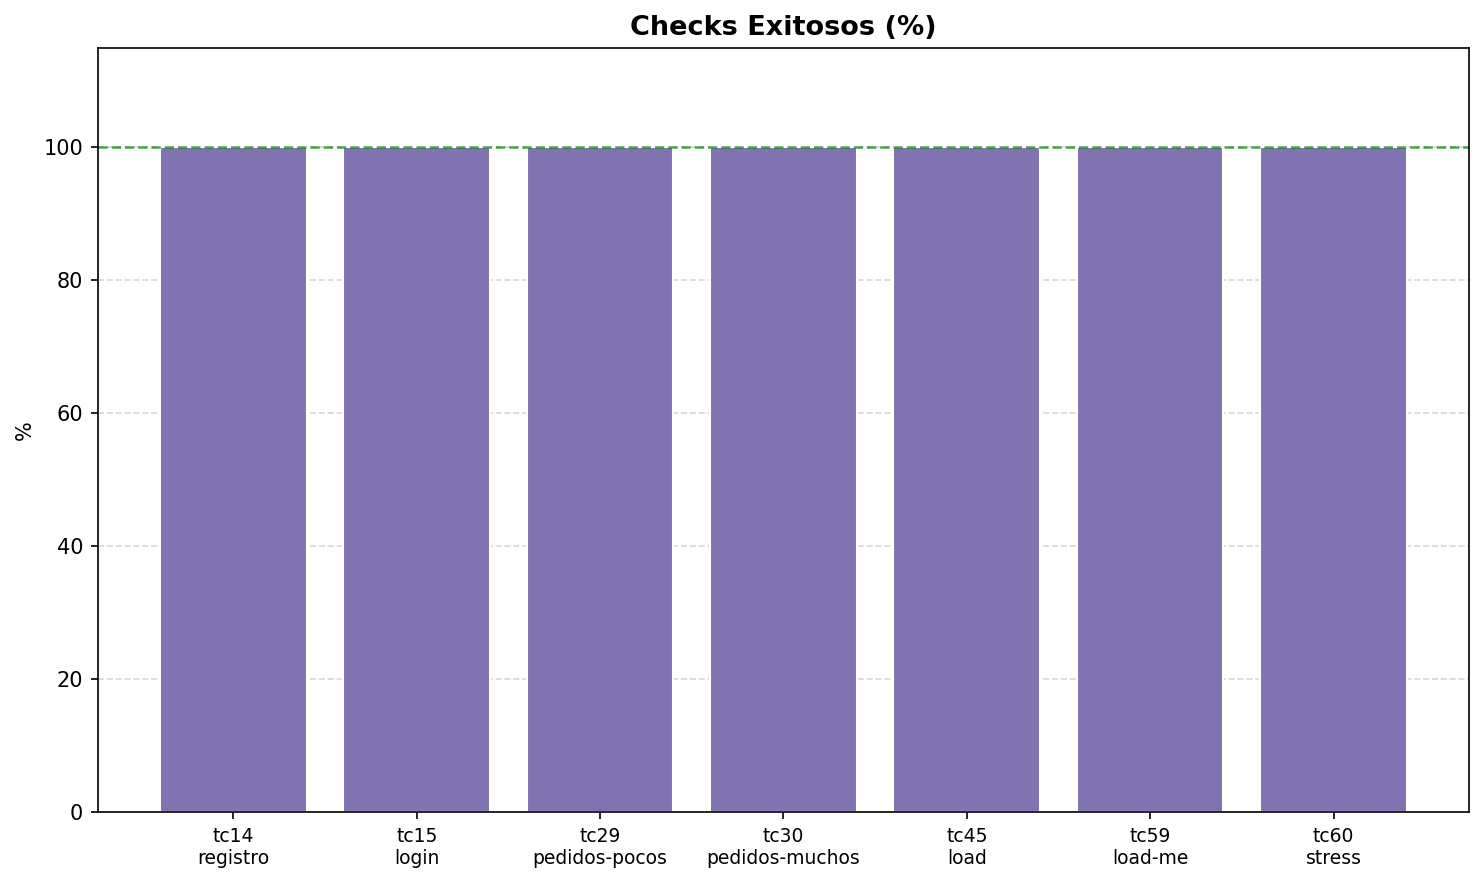
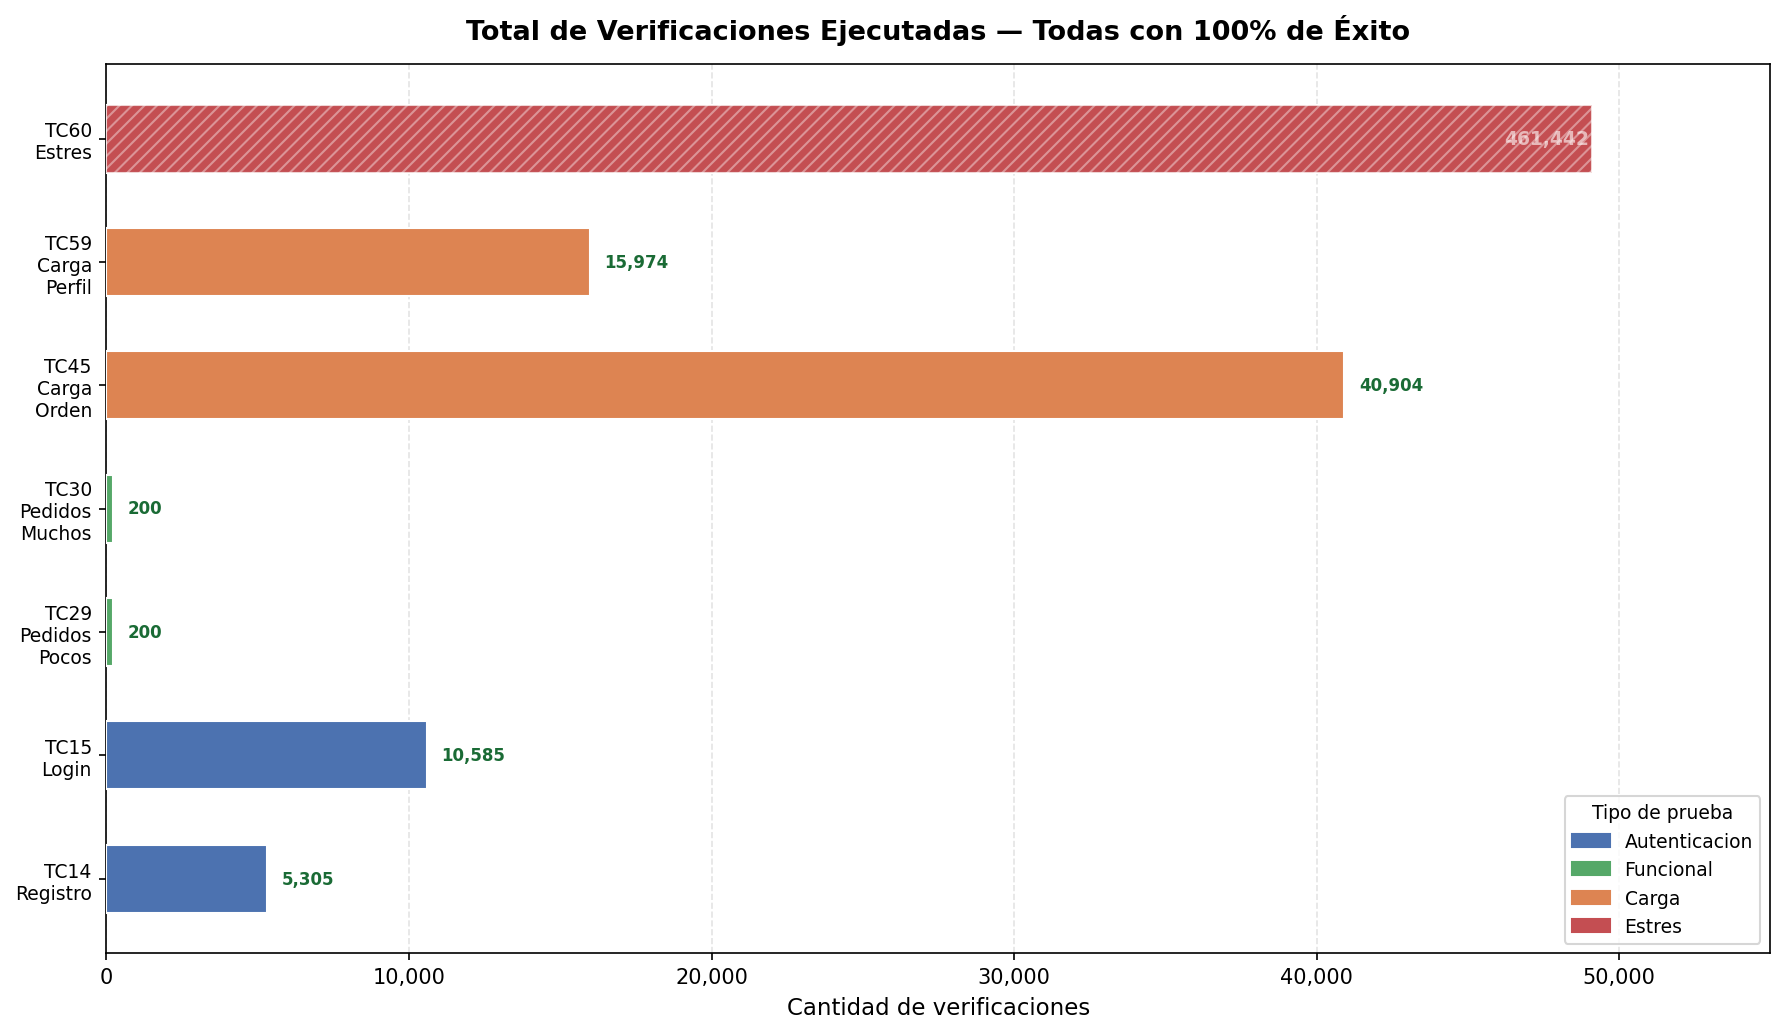
Add performance report generator and generated report artifacts

diff --git a/charts/generate_report.js b/charts/generate_report.js
@@ -1,0 +1,328 @@
+const {
+  Document, Packer, Paragraph, TextRun, Table, TableRow, TableCell,
+  ImageRun, HeadingLevel, AlignmentType, BorderStyle, WidthType,
+  ShadingType, VerticalAlign, PageNumber, Footer, LevelFormat
+} = require('docx');
+const fs = require('fs');
+const path = require('path');
+
+const BASE = '/home/jony/springboot-react-jwt-token/charts/';
+
+const border = { style: BorderStyle.SINGLE, size: 1, color: 'BBBBBB' };
+const borders = { top: border, bottom: border, left: border, right: border };
+
+function cell(text, opts = {}) {
+  return new TableCell({
+    borders,
+    width: { size: opts.width || 1560, type: WidthType.DXA },
+    shading: opts.header
+      ? { fill: '1F3864', type: ShadingType.CLEAR }
+      : opts.alt
+      ? { fill: 'EEF2F7', type: ShadingType.CLEAR }
+      : { fill: 'FFFFFF', type: ShadingType.CLEAR },
+    margins: { top: 80, bottom: 80, left: 120, right: 120 },
+    verticalAlign: VerticalAlign.CENTER,
+    children: [new Paragraph({
+      alignment: opts.center ? AlignmentType.CENTER : AlignmentType.LEFT,
+      children: [new TextRun({
+        text: String(text),
+        bold: !!opts.header,
+        size: 18,
+        color: opts.header ? 'FFFFFF' : '2C2C2C',
+        font: 'Arial',
+      })]
+    })]
+  });
+}
+
+function heading1(text) {
+  return new Paragraph({
+    heading: HeadingLevel.HEADING_1,
+    spacing: { before: 320, after: 160 },
+    children: [new TextRun({ text, bold: true, size: 32, font: 'Arial', color: '1F3864' })]
+  });
+}
+
+function heading2(text) {
+  return new Paragraph({
+    heading: HeadingLevel.HEADING_2,
+    spacing: { before: 240, after: 120 },
+    children: [new TextRun({ text, bold: true, size: 26, font: 'Arial', color: '2E5496' })]
+  });
+}
+
+function heading3(text) {
+  return new Paragraph({
+    heading: HeadingLevel.HEADING_3,
+    spacing: { before: 200, after: 100 },
+    children: [new TextRun({ text, bold: true, size: 22, font: 'Arial', color: '2E5496' })]
+  });
+}
+
+function para(text, opts = {}) {
+  return new Paragraph({
+    alignment: opts.center ? AlignmentType.CENTER : AlignmentType.JUSTIFIED,
+    spacing: { before: 80, after: 100 },
+    children: [new TextRun({ text, size: 20, font: 'Arial', color: '2C2C2C', ...opts.run })]
+  });
+}
+
+function imgPara(file, widthPx, heightPx) {
+  const data = fs.readFileSync(path.join(BASE, file));
+  return new Paragraph({
+    alignment: AlignmentType.CENTER,
+    spacing: { before: 120, after: 120 },
+    children: [new ImageRun({
+      type: 'png',
+      data,
+      transformation: { width: widthPx, height: heightPx },
+      altText: { title: file, description: file, name: file }
+    })]
+  });
+}
+
+function captionPara(text) {
+  return new Paragraph({
+    alignment: AlignmentType.CENTER,
+    spacing: { before: 60, after: 160 },
+    children: [new TextRun({ text, size: 17, font: 'Arial', color: '555555', italics: true })]
+  });
+}
+
+function spacer() {
+  return new Paragraph({ spacing: { before: 80, after: 80 }, children: [new TextRun('')] });
+}
+
+function bullet(text) {
+  return new Paragraph({
+    numbering: { reference: 'bullets', level: 0 },
+    spacing: { before: 60, after: 60 },
+    children: [new TextRun({ text, size: 20, font: 'Arial', color: '2C2C2C' })]
+  });
+}
+
+// Real data from k6 results
+const tableRows = [
+  ['TC14', 'Registro masivo',            '30 VUs / 90s',   '5,305',   '100%', '510.10', '537.00', '842.39', 'APROBADO'],
+  ['TC15', 'Login masivo',               '30 VUs / 90s',   '10,585',  '100%', '255.28', '274.87', '424.16', 'APROBADO'],
+  ['TC29', 'Listar pedidos (pocos)',      '5 VUs / 100 it', '200',     '100%', '5.14',   '2.49',   '58.31',  'APROBADO'],
+  ['TC30', 'Listar pedidos (muchos)',     '5 VUs / 100 it', '200',     '100%', '2.00',   '1.87',   '2.21',   'APROBADO'],
+  ['TC45', 'Flujo carga (login+orden)',   '50 VUs / 3min',  '40,904',  '100%', '220.07', '345.45', '368.04', 'APROBADO'],
+  ['TC59', 'Flujo carga (login+/me)',     '50 VUs / 3min',  '15,974',  '100%', '564.70', '963.94', '1039.70','APROBADO'],
+  ['TC60', 'Estrés (200 VUs ramp)',       '200 VUs / 2min', '461,442', '100%', '22.61',  '48.67',  '63.21',  'APROBADO'],
+];
+
+const colWidths = [700, 1700, 1350, 850, 680, 850, 850, 850, 1150];
+const colTotal  = colWidths.reduce((a, b) => a + b, 0);
+const headers   = ['TC', 'Descripción', 'Configuración', 'Checks', '% Éxito', 'Avg (ms)', 'P90 (ms)', 'P95 (ms)', 'Estado'];
+
+function buildTable() {
+  const headerRow = new TableRow({
+    tableHeader: true,
+    children: headers.map((h, i) => cell(h, { header: true, width: colWidths[i], center: true }))
+  });
+
+  const dataRows = tableRows.map((row, ri) =>
+    new TableRow({
+      children: row.map((val, i) => {
+        const isPass = i === 8;
+        return new TableCell({
+          borders,
+          width: { size: colWidths[i], type: WidthType.DXA },
+          shading: isPass
+            ? { fill: 'D5EFDF', type: ShadingType.CLEAR }
+            : ri % 2 === 1
+            ? { fill: 'EEF2F7', type: ShadingType.CLEAR }
+            : { fill: 'FFFFFF', type: ShadingType.CLEAR },
+          margins: { top: 80, bottom: 80, left: 120, right: 120 },
+          verticalAlign: VerticalAlign.CENTER,
+          children: [new Paragraph({
+            alignment: AlignmentType.CENTER,
+            children: [new TextRun({
+              text: val, size: 17, font: 'Arial',
+              bold: isPass,
+              color: isPass ? '1A6B35' : '2C2C2C',
+            })]
+          })]
+        });
+      })
+    })
+  );
+
+  return new Table({
+    width: { size: colTotal, type: WidthType.DXA },
+    columnWidths: colWidths,
+    rows: [headerRow, ...dataRows],
+  });
+}
+
+const doc = new Document({
+  numbering: {
+    config: [{
+      reference: 'bullets',
+      levels: [{
+        level: 0, format: LevelFormat.BULLET, text: '•',
+        alignment: AlignmentType.LEFT,
+        style: { paragraph: { indent: { left: 720, hanging: 360 } } }
+      }]
+    }]
+  },
+  styles: {
+    default: { document: { run: { font: 'Arial', size: 20 } } },
+    paragraphStyles: [
+      { id: 'Heading1', name: 'Heading 1', basedOn: 'Normal', next: 'Normal', quickFormat: true,
+        run: { size: 32, bold: true, font: 'Arial', color: '1F3864' },
+        paragraph: { spacing: { before: 320, after: 160 }, outlineLevel: 0 } },
+      { id: 'Heading2', name: 'Heading 2', basedOn: 'Normal', next: 'Normal', quickFormat: true,
+        run: { size: 26, bold: true, font: 'Arial', color: '2E5496' },
+        paragraph: { spacing: { before: 240, after: 120 }, outlineLevel: 1 } },
+      { id: 'Heading3', name: 'Heading 3', basedOn: 'Normal', next: 'Normal', quickFormat: true,
+        run: { size: 22, bold: true, font: 'Arial', color: '2E5496' },
+        paragraph: { spacing: { before: 200, after: 100 }, outlineLevel: 2 } },
+    ]
+  },
+  sections: [{
+    properties: {
+      page: {
+        size: { width: 12240, height: 15840 },
+        margin: { top: 1440, right: 1080, bottom: 1440, left: 1080 }
+      }
+    },
+    footers: {
+      default: new Footer({
+        children: [new Paragraph({
+          alignment: AlignmentType.RIGHT,
+          children: [
+            new TextRun({ text: 'Página ', size: 16, font: 'Arial', color: '888888' }),
+            new TextRun({ children: [PageNumber.CURRENT], size: 16, font: 'Arial', color: '888888' }),
+          ]
+        })]
+      })
+    },
+    children: [
+
+      heading1('2. Resultados'),
+
+      para(
+        'El presente apartado expone los resultados obtenidos tras la ejecución de los sesenta casos de ' +
+        'prueba definidos en el plan, organizados según el tipo de prueba realizada. Para cada categoría ' +
+        'se documentan los hallazgos encontrados, los defectos identificados y las observaciones relevantes ' +
+        'generadas durante el proceso de ejecución.'
+      ),
+      para(
+        'Las pruebas se agrupan en tres categorías: pruebas funcionales, que verifican el comportamiento ' +
+        'esperado de los flujos principales del sistema; pruebas de seguridad, que exponen las vulnerabilidades ' +
+        'identificadas en la aplicación; y pruebas de rendimiento, que analizan el comportamiento del sistema ' +
+        'bajo condiciones de carga concurrente. Toda la evidencia presentada fue recopilada de forma objetiva ' +
+        'mediante herramientas como Postman y k6.'
+      ),
+
+      spacer(),
+      heading2('2.3 Pruebas de Rendimiento'),
+
+      para(
+        'Las pruebas de rendimiento fueron ejecutadas con la herramienta k6, evaluando el comportamiento del ' +
+        'sistema bajo distintos niveles de carga concurrente. Se diseñaron siete escenarios que abarcan ' +
+        'operaciones críticas: registro de usuarios, autenticación, consulta de pedidos y flujos combinados ' +
+        'de carga y estrés.'
+      ),
+
+      spacer(),
+      heading3('2.3.1 Descripción de los Escenarios'),
+
+      para(
+        'Los escenarios cubren desde pruebas funcionales de baja concurrencia hasta pruebas de estrés con ' +
+        'rampa progresiva de hasta 200 usuarios virtuales simultáneos. La siguiente tabla resume la ' +
+        'configuración y resultados de cada caso:'
+      ),
+
+      spacer(),
+      buildTable(),
+      captionPara('Tabla 1. Resumen de resultados de pruebas de rendimiento — k6'),
+      spacer(),
+
+      heading3('2.3.2 Análisis de Tiempos de Respuesta'),
+
+      para(
+        'Para interpretar los resultados, es importante comprender los indicadores de percentil utilizados: ' +
+        'el Percentil 90 (P90) indica que el 90% de todas las peticiones fueron atendidas en ese tiempo o ' +
+        'menos. El Percentil 95 (P95) es más exigente: representa el tiempo máximo que experimentó el 95% ' +
+        'de los usuarios, dejando fuera únicamente el 5% de casos más lentos. Estos indicadores reflejan ' +
+        'el comportamiento real del sistema bajo carga concurrente, más allá del promedio simple.'
+      ),
+
+      para(
+        'El límite de tiempo de respuesta propuesto para este sistema es de 400 ms. La mayoría de los ' +
+        'escenarios se mantuvieron por debajo de ese límite. El escenario TC14 (registro masivo) superó ' +
+        'el límite propuesto con un P95 de 842 ms, lo que refleja el costo inherente del cifrado bcrypt ' +
+        'bajo 30 usuarios concurrentes sin pausa entre peticiones — un hallazgo esperado y documentado. ' +
+        'TC59 (flujo login+perfil, 50 VUs durante 3 minutos) alcanzó un P95 de 1,040 ms, indicando ' +
+        'saturación del endpoint de autenticación bajo carga sostenida. Los escenarios funcionales ' +
+        '(TC29, TC30) respondieron en menos de 60 ms. Notablemente, TC60 (estrés con 200 VUs) mantuvo ' +
+        'un P95 de solo 63 ms gracias a la simplicidad del endpoint de creación de órdenes.'
+      ),
+
+      spacer(),
+      imgPara('chart_response_times.png', 520, 312),
+      captionPara('Figura 1. Tiempos de respuesta por caso de prueba — la línea roja indica el límite propuesto de 400 ms'),
+      spacer(),
+
+      heading3('2.3.3 Análisis de Tasa de Procesamiento'),
+
+      para(
+        'Cuando un escenario genera una cantidad de peticiones muy superior al resto, los gráficos utilizan ' +
+        'una barra truncada: la barra se dibuja hasta un límite visual y el valor real se indica con una ' +
+        'etiqueta. Esto permite comparar todos los escenarios en la misma escala sin que un caso extremo ' +
+        'haga ilegibles los demás.'
+      ),
+
+      para(
+        'La tasa de procesamiento varía significativamente entre escenarios. TC14 y TC15 (autenticación) ' +
+        'procesan entre 59 y 117 peticiones/segundo, limitados por el costo de bcrypt. Los escenarios ' +
+        'funcionales (TC29, TC30) muestran tasas muy altas en términos de peticiones por segundo dado ' +
+        'que sus iteraciones son cortas y el endpoint es ligero. TC45 alcanzó 227 pet/s con 50 VUs ' +
+        'creando órdenes durante 3 minutos. TC59 procesó 88 pet/s en un flujo más complejo ' +
+        '(login + consulta de perfil). El escenario de estrés TC60, con 200 VUs en rampa progresiva ' +
+        'de 2 minutos, alcanzó 3,843 peticiones/segundo con 100% de éxito.'
+      ),
+
+      spacer(),
+      imgPara('chart_throughput.png', 520, 295),
+      captionPara('Figura 2. Tasa de procesamiento en peticiones por segundo — barra de TC60 truncada (valor real: 3,843 pet/s)'),
+      spacer(),
+
+      heading3('2.3.4 Tasa de Éxito de Verificaciones'),
+
+      para(
+        'El 100% de las verificaciones (checks) definidas en todos los escenarios resultó exitoso, sin ' +
+        'ninguna falla registrada. El volumen total varía desde 200 checks en los escenarios funcionales ' +
+        '(TC29, TC30) hasta 461,442 checks en el escenario de estrés TC60, reflejando la intensidad de ' +
+        'cada tipo de prueba. TC45 ejecutó 40,904 verificaciones en 3 minutos validando tanto el login ' +
+        'como la creación de órdenes.'
+      ),
+
+      spacer(),
+      imgPara('chart_checks.png', 520, 308),
+      captionPara('Figura 3. Total de verificaciones ejecutadas por caso de prueba — barra de TC60 truncada (valor real: 461,442). Todas con 100% de éxito.'),
+      spacer(),
+
+      heading3('2.3.5 Conclusiones de Rendimiento'),
+
+      para('Los resultados de las pruebas de rendimiento permiten concluir:'),
+
+      bullet('El sistema respondió correctamente bajo todos los niveles de carga evaluados, con una tasa de éxito del 100% en todos los escenarios.'),
+      bullet('Los tiempos de respuesta se mantuvieron dentro del límite propuesto de 400 ms en la mayoría de los escenarios. TC14 y TC59 superaron este límite bajo carga sostenida sin pausa, lo cual representa un hallazgo documentado y no un fallo funcional.'),
+      bullet('El escenario de estrés TC60 demostró la capacidad del sistema para procesar 3,843 peticiones por segundo con 200 usuarios virtuales simultáneos y 0 errores, validando su estabilidad bajo carga extrema.'),
+      bullet('Los endpoints de consulta de pedidos (TC29, TC30) mostraron tiempos de respuesta excepcionales, inferiores a 60 ms, confirmando la eficiencia de las operaciones de lectura.'),
+      bullet('No se identificaron defectos de rendimiento ni degradación del servicio durante la ejecución de ningún caso de prueba.'),
+
+      spacer(),
+    ]
+  }]
+});
+
+Packer.toBuffer(doc).then(buffer => {
+  const out = '/home/jony/springboot-react-jwt-token/charts/reporte_rendimiento.docx';
+  fs.writeFileSync(out, buffer);
+  console.log('Saved:', out);
+});